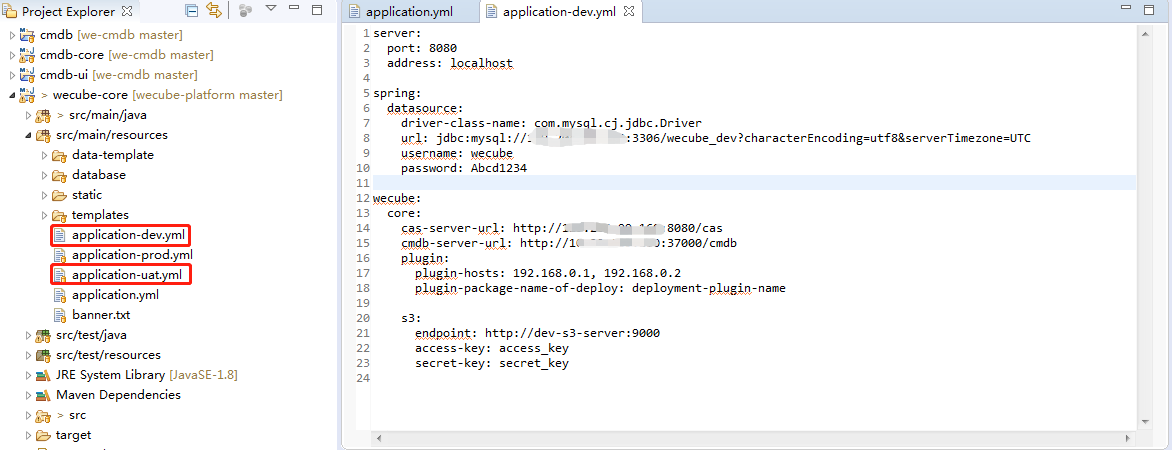
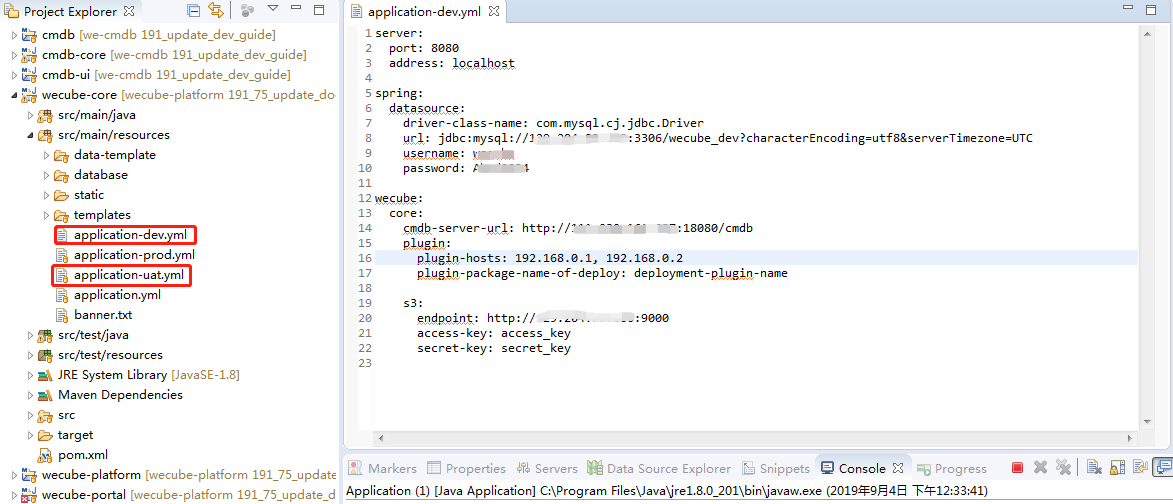
update dev guide & readme , fixed #191, #75

Changed region(s): [[0.0, 0.0, 1.0, 1.0]]

diff --git a/README.md b/README.md
@@ -21,60 +21,86 @@ WeCube的设计理念与IT系统生命周期管理基本一致。可以通过“
 
 
 ## 技术实现
-WeCube分为核心功能模块和插件模块。核心功能模块使用Java/MySQL/VUE开发，主要负责工作流程，可视化和核心数据存储。插件模块用于功能扩展，分为资源管理、数据整合、功能增强三类插件。对于插件，WeCube定义了一套接口规范，插件开发者可以在遵循规范的前提下，自行选择开发语言。目前已有的插件使用的开发语言包括GO语言和Java。
+WeCube分为核心功能模块和插件模块。
 
-## 主要功能
+核心功能模块使用Java/MySQL/VUE开发，主要负责工作流程，可视化和核心数据存储。
+
+插件模块用于功能扩展，分为资源管理、数据整合、功能增强三类插件。对于插件，WeCube定义了一套接口规范，插件开发者可以在遵循规范的前提下，自行选择开发语言。目前已有的插件使用的开发语言包括GO语言和Java。
+
+
+## 系统架构
+
+### WeCube 1.x版本
+WeCube1.0版本已经完成开发，整体架构如下图：
+
+![WeCube1.0整体逻辑架构](wecube-wiki/images/wecube_arch_1.png) 
+
+- WeCube1.0版本以WeCMDB为数据核心，配置数据都存储在WeCMDB中；
+- WeCube1.0版本需要CAS服务提供鉴权能力， 为保持权限数据的一致性， 建议与WeCMDB共用一个CAS服务。在WeCube1.1版本，会增加支持本地用户验证模式；
+- WeCube1.0版本需要一个对象存储服务（S3协议），用于存储物料包、执行脚本等。
+- WeCube1.0版本支持了两个插件：腾讯云插件、SaltStack插件。
+
+WeCube1.0版本已实现功能见下图：
+
+![WeCube1.0功能架构](wecube-wiki/images/wecube_arch_2.png) 
+
+###WeCube 2.0版本
+WeCube 2.0版本正在设计进行中， 敬请期待。
+
+## 主要功能简介
 WeCube的功能菜单设计与设计理念保持一致。分别是任务、设计、执行、监测、智慧、调整、协同、系统。
 
 - 系统
 
-&ensp;&ensp;&ensp;&ensp;CMDB模型设计, 是系统管理的核心功能，目前WeCube的CMDB模型设计支持完全自定义和图形化展示。
+	CMDB模型设计, 是系统管理的核心功能，目前WeCube的CMDB模型设计支持完全自定义和图形化展示。
 
-&ensp;&ensp;&ensp;&ensp;权限管理，数据权限控制增删改查执行，并且数据权限控制到行。比如DBA只能有数据库主机的权限，主机只需要一个CI模型就可以了。
+	权限管理，数据权限控制增删改查执行，并且数据权限控制到行。比如DBA只能有数据库主机的权限，主机只需要一个CI模型就可以了。
 
-&ensp;&ensp;&ensp;&ensp;基础数据,是一些系统参数。
+	基础数据，是一些系统参数。
 
 - 协同
 
-&ensp;&ensp;&ensp;&ensp;插件注册，选择插件包上传，并通过容器运行，支持多实例，可以查看插件运行的日志。选择插件，通过插件运行的参数关联CMDB模型的属性值，形成注册。插件包更新历史关联会自动回填。降低升级成本。目前已经有腾讯云资源管理和应用部署服务的插件。
+	插件注册，选择插件包上传，并通过容器运行，支持多实例，可以查看插件运行的日志。选择插件，通过插件运行的参数关联CMDB模型的属性值，形成注册。插件包更新历史关联会自动回填。降低升级成本。目前已经有腾讯云资源管理和应用部署服务的插件。
 
-&ensp;&ensp;&ensp;&ensp;任务编排，比如设计一个VPC创建的编排。包括创建VPC、创建子网、创建VM。
-流程的每个执行节点需要关联插件。
+	任务编排，比如设计一个VPC创建的编排。包括创建VPC、创建子网、创建VM。流程的每个执行节点需要关联插件。
 
-
-&ensp;&ensp;&ensp;&ensp;服务通道
+	服务通道
 
 - 设计
 
-&ensp;&ensp;&ensp;&ensp;规划设计，用于设计机房结构。
+	规划设计，用于设计机房结构。
 
-&ensp;&ensp;&ensp;&ensp;资源规划,用于实例化一个机房，特别是两地三中心结构。
+	资源规划,用于实例化一个机房，特别是两地三中心结构。
 
-&ensp;&ensp;&ensp;&ensp;应用架构设计,用于设计一个应用的逻辑架构。
+	应用架构设计,用于设计一个应用的逻辑架构。
 
-&ensp;&ensp;&ensp;&ensp;应用部署设计,用于实际部署一个应用。支持灰度发布。
+	应用部署设计,用于实际部署一个应用。支持灰度发布。
 
-&ensp;&ensp;&ensp;&ensp;CI数据管理/查询，通过模型图形进入单个数据管理以及查询。
+	CI数据管理/查询，通过模型图形进入单个数据管理以及查询。
 
-&ensp;&ensp;&ensp;&ensp;CI综合查询管理/数据综合查询，用于配制多CI属性报表。比如一个应用使用到了哪些主机。
+	CI综合查询管理/数据综合查询，用于配制多CI属性报表。比如一个应用使用到了哪些主机。
 
-&ensp;&ensp;&ensp;&ensp;枚举数据管理/查询，通过对公共枚举和私有枚举进行管理以及查询。
+	枚举数据管理/查询，通过对公共枚举和私有枚举进行管理以及查询。
 
 
 - 执行
 
-&ensp;&ensp;&ensp;&ensp;物料管理，管理应用程序的包。可以定义各种文件，可以配置环境差异导致的变量替换规则，不需要人工处理。
+	物料管理，管理应用程序的包。可以定义各种文件，可以配置环境差异导致的变量替换规则，不需要人工处理。
 
-&ensp;&ensp;&ensp;&ensp;应用部署，查看部署过程及异常，并作重试处理。
+	应用部署，查看部署过程及异常，并作重试处理。
 
-&ensp;&ensp;&ensp;&ensp;批量执行，通过综合查询选择目标。在通过特定插件来执行任务。比如某个应用的所有主机，执行一个用户权限变更。
+	批量执行，通过综合查询选择目标。在通过特定插件来执行任务。比如某个应用的所有主机，执行一个用户权限变更。
 
-&ensp;&ensp;&ensp;&ensp;高危命令配置，定义一些高危指令（如rm -rf），阻止执行或触发审批流程。
-&ensp;&ensp;&ensp;&ensp;编排任务执行，应该一般任务。比如重启某个资源集的5台主机。
+	高危命令配置，定义一些高危指令（如rm -rf），阻止执行或触发审批流程。
+	
+	编排任务执行，应该一般任务。比如重启某个资源集的5台主机。
 
 - 任务（2019年下半年）
+
 - 监测（2019年下半年）
+
 - 调整（2019年下半年）
+
 - 智慧（2019年下半年）
 
 

diff --git a/wecube-wiki/docs/developer/wecube_developer_guide.md b/wecube-wiki/docs/developer/wecube_developer_guide.md
@@ -13,26 +13,15 @@
 	
 	需要在开发电脑上先安装Mysql，请参考[Mysql安装文档](https://github.com/WeBankPartners/we-cmdb/blob/master/cmdb-wiki/docs/developer/mysql_install_guide.md)
 
-4. 安装CAS
-	
-	需要有一个CAS服务， 也可以在开发电脑上安装CAS。dockerhub上有容器镜像，可以直接下载安装。
-	
-	命令如下：
-	
-	```
-	docker pull kawhii/sso
-	docker run -d --name cas -p 8443:8443 -p 8878:8080 kawhii/sso
-	```
-	
-	CAS默认用户密码：admin/123
-
-5. 安装node.js
+4. 安装node.js
 	
 	访问node.js官方网站：http://nodejs.cn/download， 下载v10.16.3版本。双击下载后的安装文件， 按默认配置进行安装。
 
-6. 安装对象存储
+5. 安装对象存储（可选）
 	
 	在本地开发电脑上运行WeCube，如果需要使用物料管理、插件功能，则需要一个支持S3协议的对象存储，可以使用远程服务， 也可以在本地开发电脑部署。本指引以Minio为例。
+	
+	如果不使用物料管理、插件功能，则无需部署。
 
 	dockerhub上有容器镜像，可以直接下载安装：https://hub.docker.com/r/minio/minio/
 	
@@ -43,7 +32,7 @@
 	docker run -p 9000:9000 -e MINIO_ACCESS_KEY=access_key -e MINIO_SECRET_KEY=secret_key minio/minio server /data
 	```
 	
-7. 需要预先部署WeCMDB
+6. 需要预先部署WeCMDB
 	
 	在本地开发电脑上运行WeCube，需要WeCMDB支持。
 	
@@ -97,7 +86,7 @@
 	在 *Project Explorer* 视图中，将 *application-uat.yml* 复制一份，更名为 *application-dev.yml*
 	![wecube_config_1](images/wecube_config_1.png)
 	
-	打开 *application-dev.yml* ，修改相关配置。
+	打开 *application-dev.yml* ，修改相关配置，开发模式下无需CAS， 可将CAS相关配置去掉。
 
 	application-dev.yml配置示例：
 
@@ -115,7 +104,6 @@
 	
 	wecube:
 	  core:
-	    cas-server-url: http://192.168.10.3:8080/cas
 	    cmdb-server-url: http://192.168.20.5:37000/cmdb
 	    plugin:
 	      plugin-hosts: 192.168.0.1, 192.168.0.2
@@ -132,8 +120,6 @@
 
 	cmdb-server-url必填， 并需要在WeCMDB中将本地IP添加到白名单中。
 
-	因为WeCube需要调用WeCMDB的接口， WeCMDB需要进行用户鉴权， 所以wecube使用的cas-server-url最好跟WeCMDB使用的是同一个CAS服务。
-
 5. 启动WeCube后端
 
 	打开Window->Preferences窗口， 选择Java->Installed JREs，新增jdk配置，如下图
@@ -144,8 +130,17 @@
 	
 	启动
 	![wecube_start](images/wecube_start.png)
+	
+	在浏览器输入 *http://localhost:8080/swagger-ui.html* 会跳转到登录页面
 
-	打开 *http://localhost:8080/swagger-ui.html* 打开 *swagger* 页面，， 输入cas登录用户及密码，即可查看并测试API
+	![wecube_swagger_login](images/wecube_swagger_login.png)
+
+	输入用户后确认， 会重定向到首页
+
+	![wecube_swagger_redirect](images/wecube_swagger_redirect.png)
+
+	需要重新输入 *http://localhost:8080/swagger-ui.html* , 进入swagger页面
+
 	![wecube_swagger_ui](images/wecube_swagger_ui.png)
 
 
@@ -158,7 +153,7 @@
 	执行npm安装命令
 	
 	```
-	npm i
+	npm install
 	```
 
 	![wecube_ui_npm_install_result](images/wecube_ui_npm_install_result.png)
